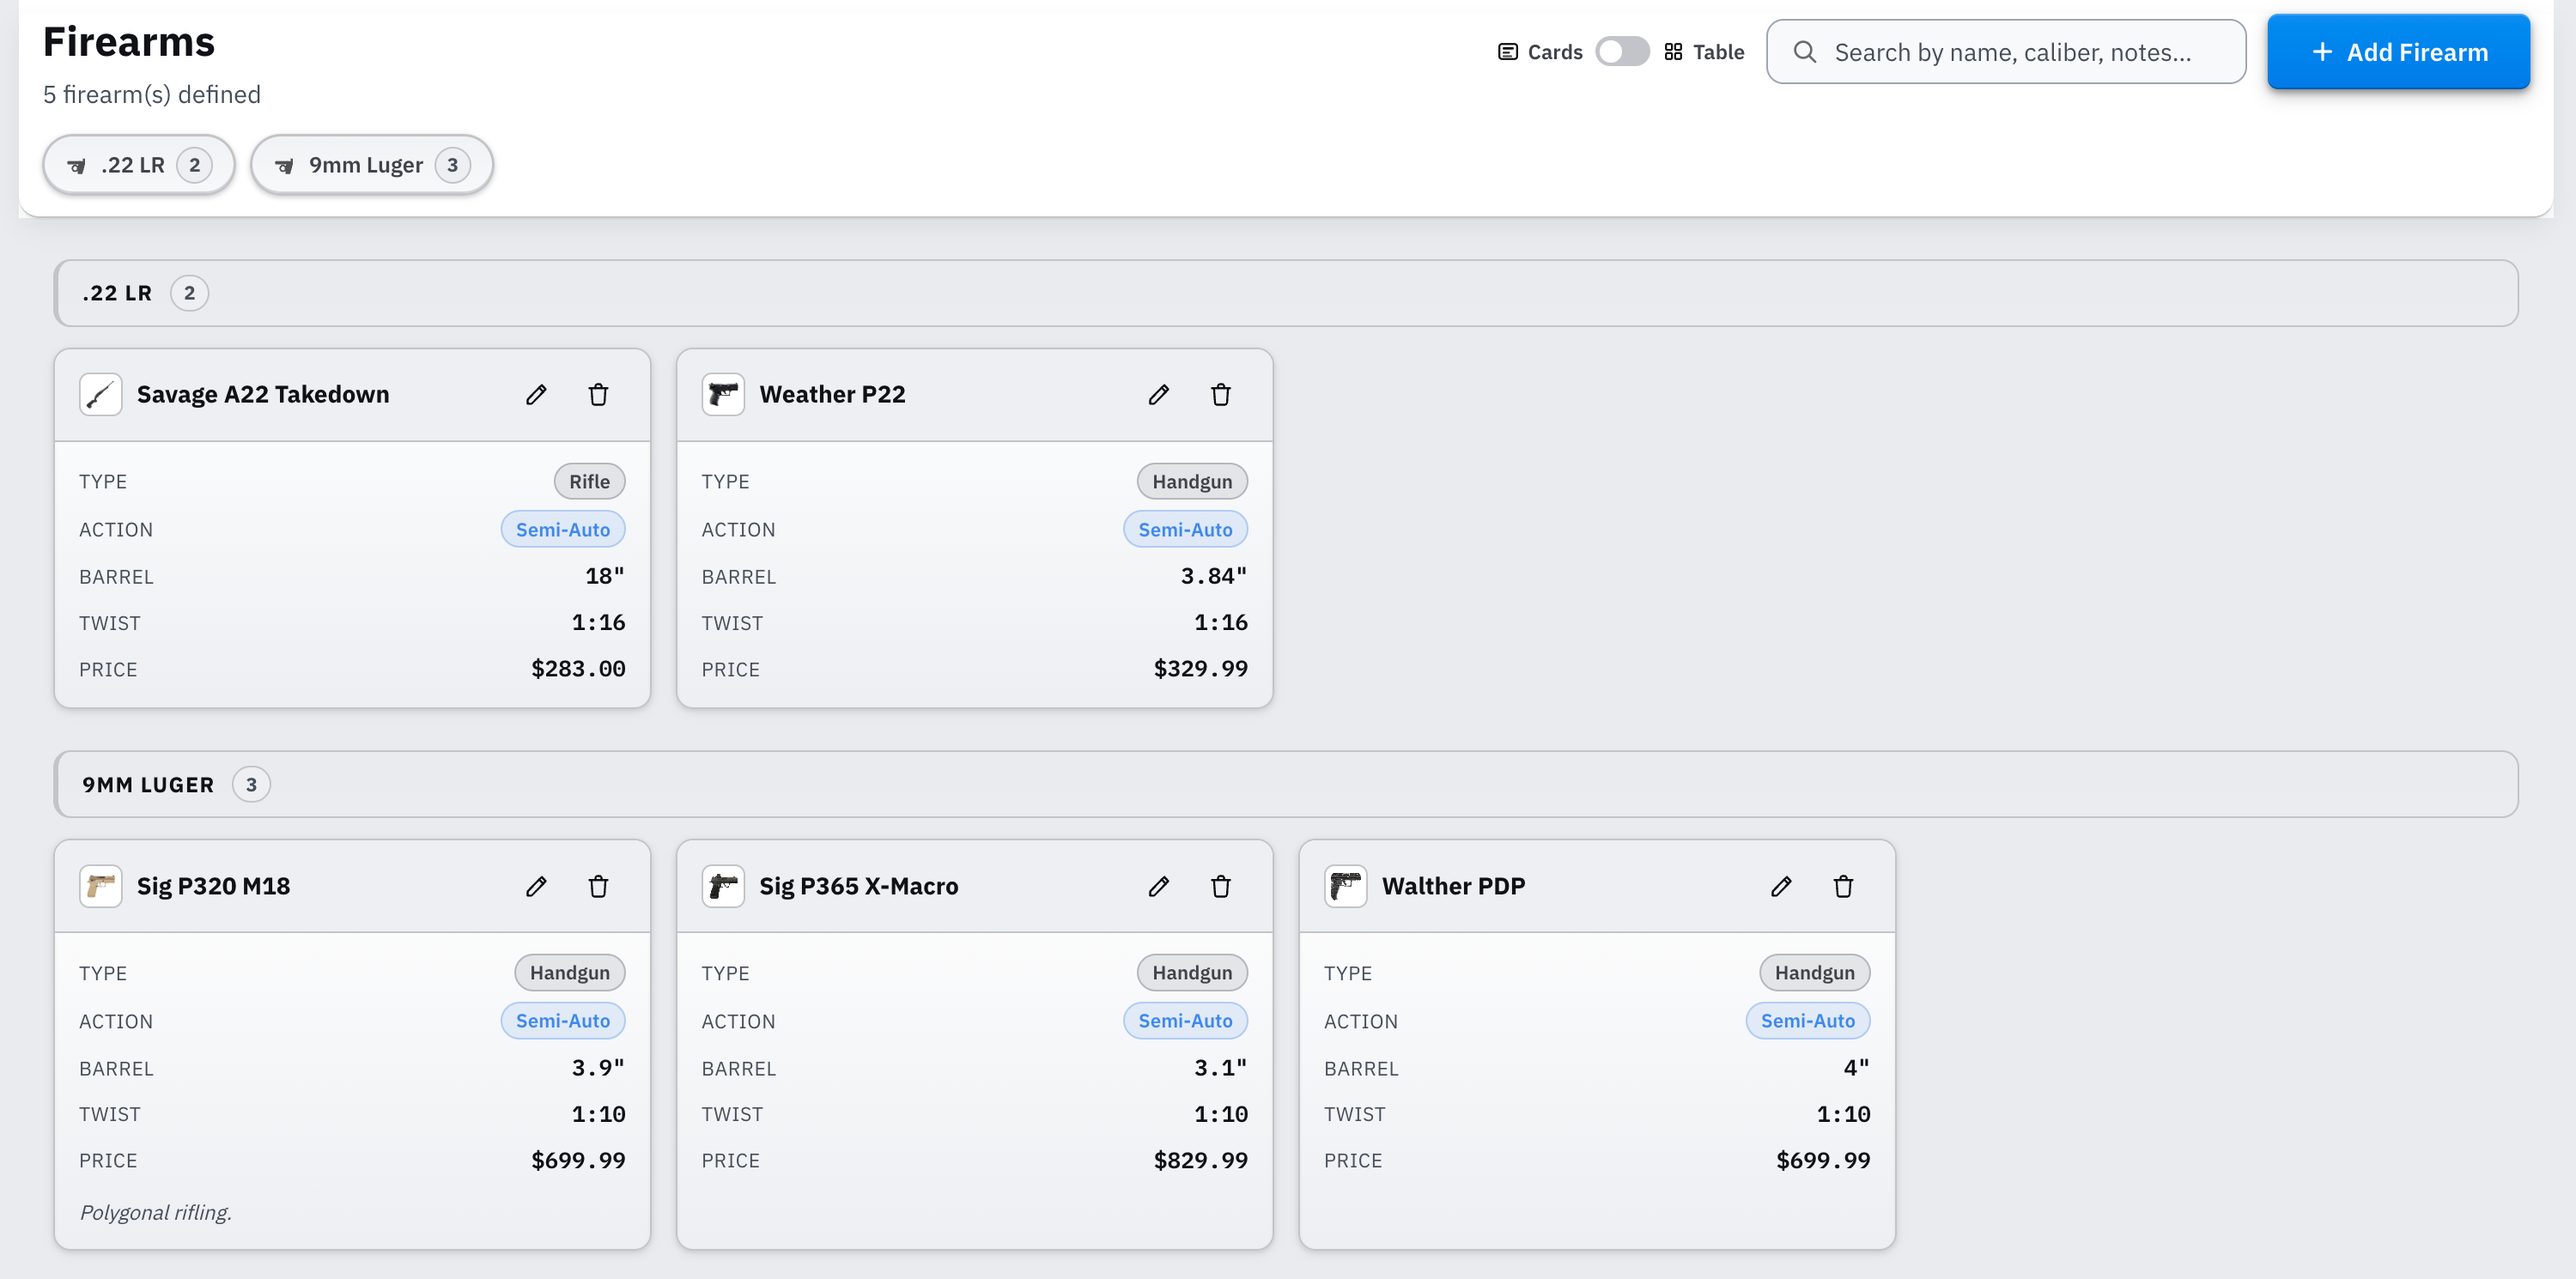
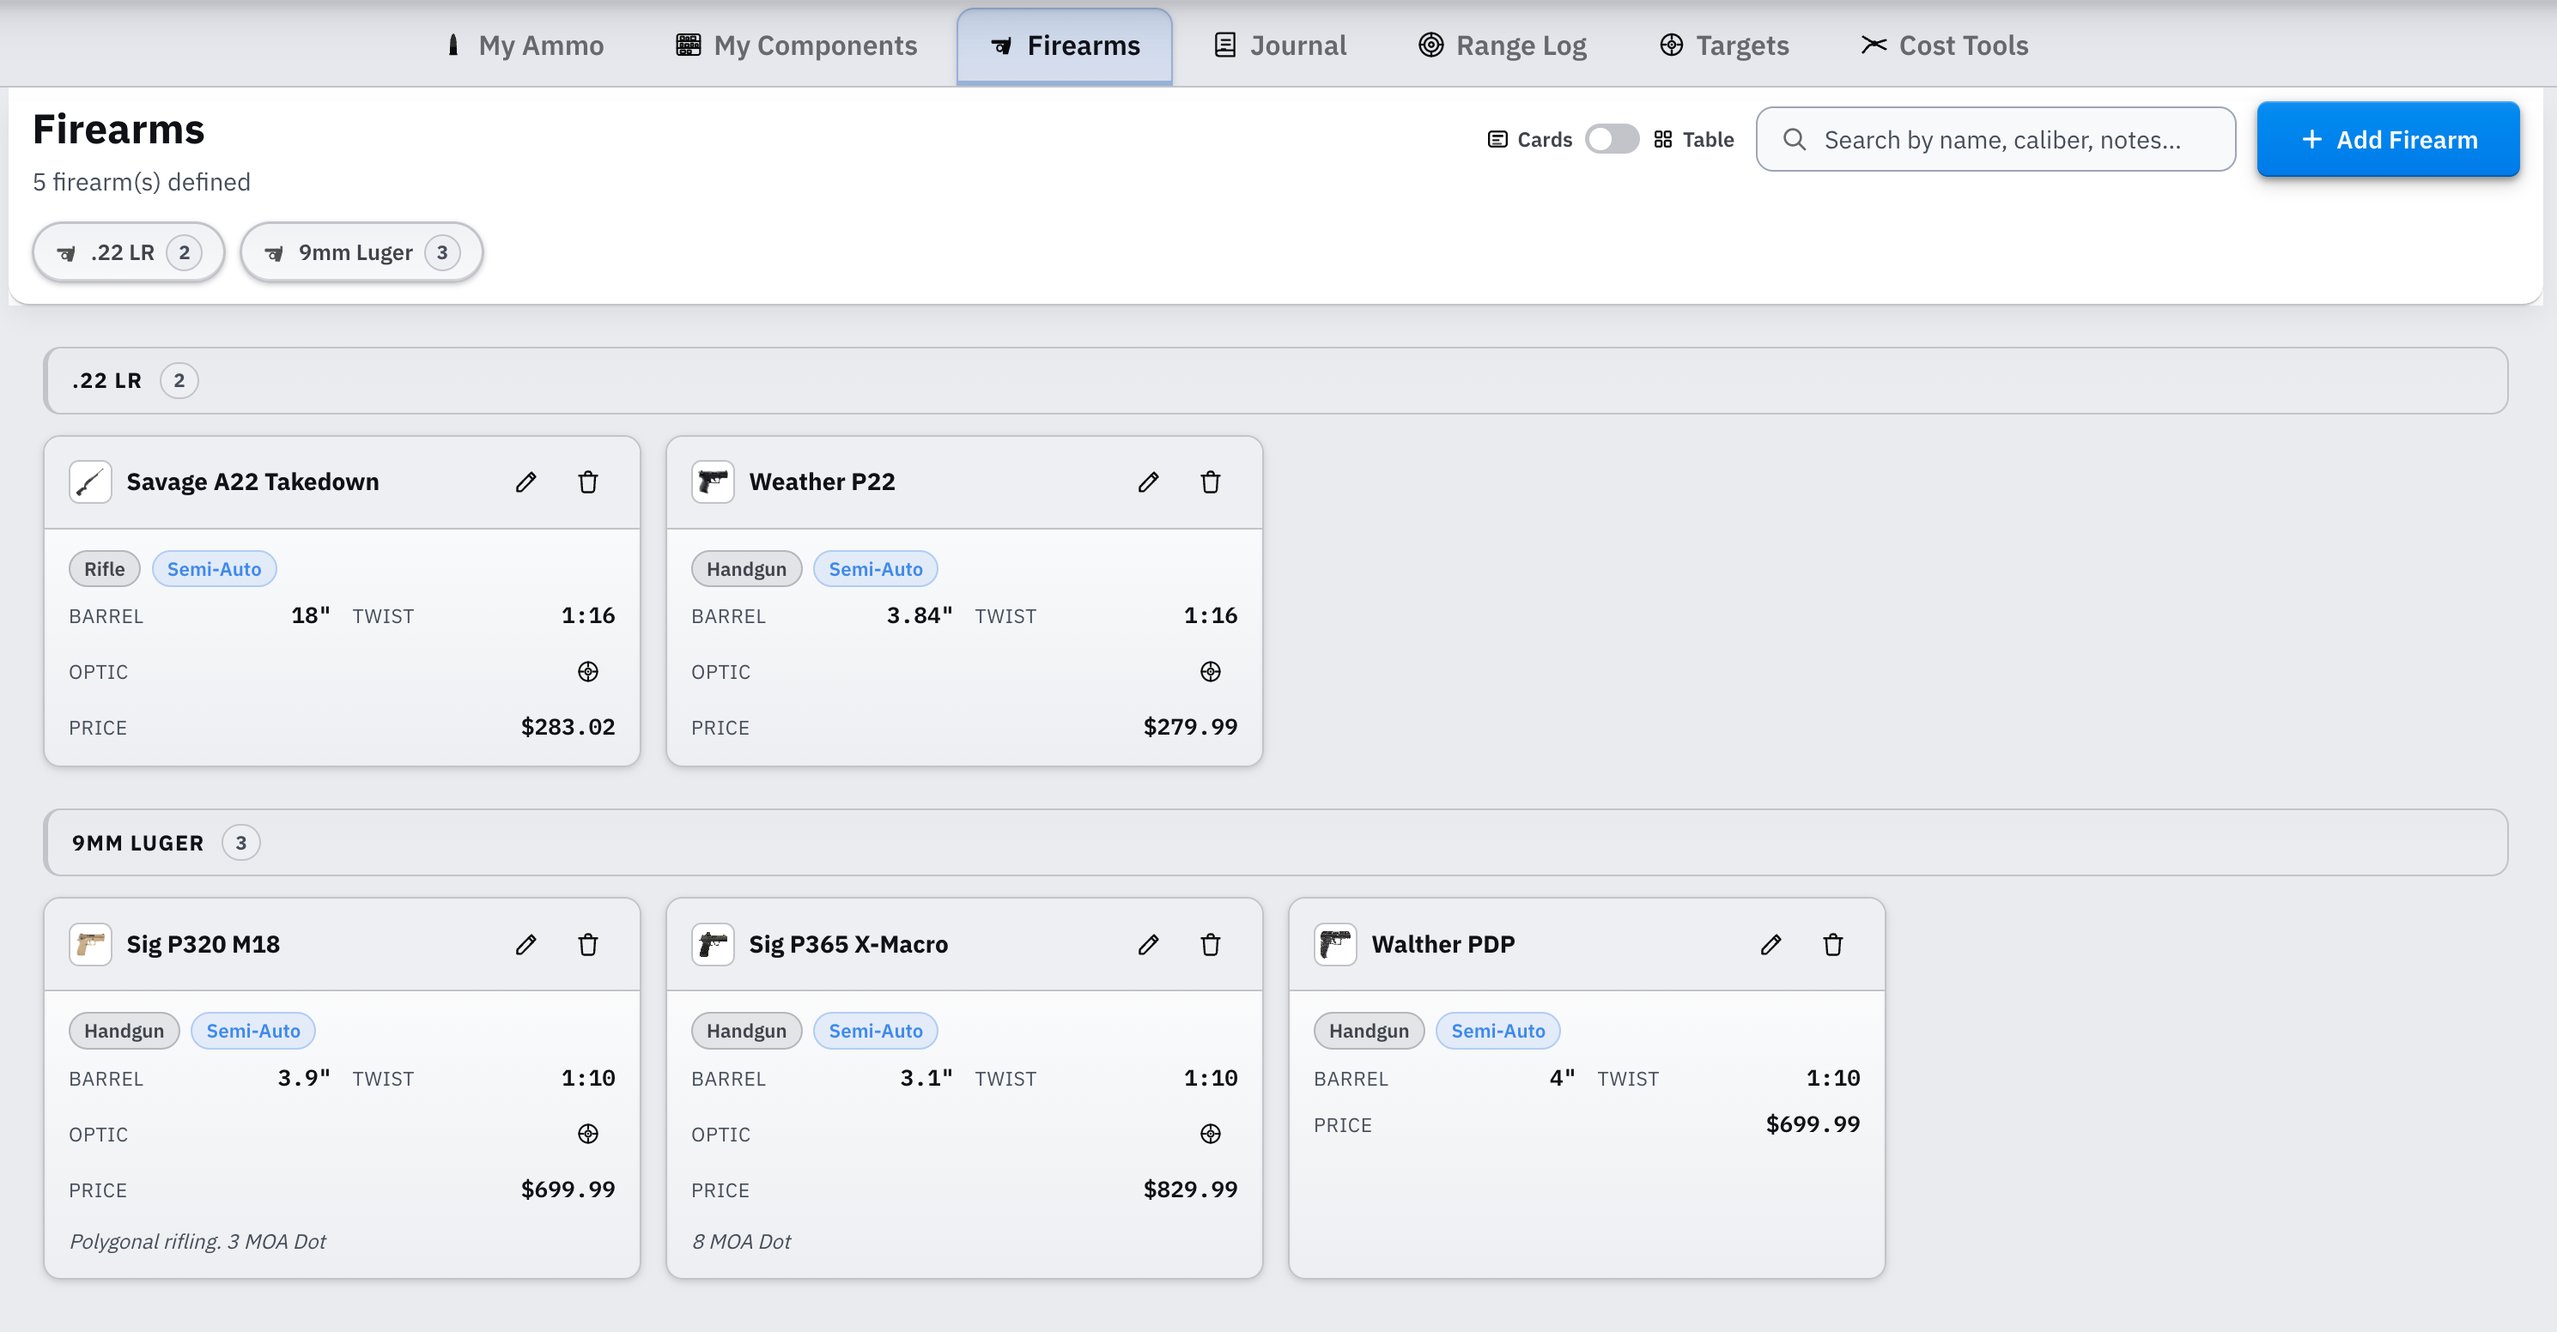
Updated documentation for scope information.

diff --git a/README.md b/README.md
@@ -45,6 +45,7 @@ Enjoying Reloading Tracker? Every cup of coffee you send my way helps keep the p
    - [Managing Firearm Profiles](#42-managing-firearm-profiles)
    - [Filtering and Searching](#43-filtering-and-searching)
    - [Card and Table Views](#44-card-and-table-views)
+   - [Firearm Datasheet](#45-firearm-datasheet)
 5. [Reloading Journal](#5-reloading-journal)
    - [Logging a Session](#51-logging-a-session)
    - [Managing Journal Entries](#52-managing-journal-entries)
@@ -158,7 +159,7 @@ The application has seven main tabs accessible from the navigation bar at the to
 |-----|---------|
 | **My Ammo** | Library of all your ammo entries: reloads and factory |
 | **My Components** | Global catalog of reloading components: powders, primers, bullets, and brass |
-| **Firearms** | Registry of your firearm profiles: type, caliber, action, barrel, and twist data, plus a photo, serial number, and price |
+| **Firearms** | Registry of your firearm profiles: type, caliber, action, barrel, and twist data, plus a photo, serial number, price, and mounted optic details |
 | **Journal** | Log pressing sessions with auto-incrementing lot numbers, dates, quantities, and notes |
 | **Range Log** | Record range sessions: firearm, distance, lots fired, round counts, performance notes |
 | **Targets** | Three sub-tabs: **Target Analysis**: upload target photos, mark impacts, measure group statistics, link to range sessions, and aggregate groups across multiple targets into one combined view; **Compare**: cross-target table of linked sessions, filterable by load, with MV, SD, computed group size, and mean radius, plus a summary bar showing best results per load; **Target Generator**: design and print custom target sheets with configurable scoring rings, grid overlays, and load annotations |
@@ -513,13 +514,15 @@ In the expanded card view under My Ammo, any component that originates from the 
 
 ## 4. Firearms Registry
 
-The **Firearms** tab is a dedicated catalog of the firearms you own and shoot. Every firearm you add here becomes available in the Range Log session form as a selectable option, keeping your range session records consistently tied to a known firearm profile rather than free-typed names. Profiles capture the mechanical details that matter for long-range and load-development work - caliber, action type, barrel length, and twist rate - as well as a photo, serial number, and purchase price for your own records.
+The **Firearms** tab is a dedicated catalog of the firearms you own and shoot. Every firearm you add here becomes available in the Range Log session form as a selectable option, keeping your range session records consistently tied to a known firearm profile rather than free-typed names. Profiles capture the mechanical details that matter for long-range and load-development work - caliber, action type, barrel length, and twist rate - as well as a photo, serial number, purchase price, and the optic mounted on the firearm.
 
 ![Screenshot: Firearms tab showing firearm profiles in card view, grouped by caliber, with caliber filter chips](./images/firearms-overview.png)
 
 ### 4.1 Adding a Firearm Profile
 
-Click **Add Firearm** in the top-right corner of the Firearms tab. A dialog opens with the following fields:
+Click **Add Firearm** in the top-right corner of the Firearms tab. The dialog is organised into a **Firearm** section and an optional **Optics** section.
+
+**Firearm**
 
 | Field | Required | Description |
 |-------|----------|-------------|
@@ -529,14 +532,35 @@ Click **Add Firearm** in the top-right corner of the Firearms tab. A dialog open
 | **Caliber** | No | The cartridge the firearm is chambered in, e.g. *.308 Win*, *9mm Luger*. Used for grouping and caliber filter chips. |
 | **Barrel Length** | No | Free text, e.g. *24 in*, *16.5"*. |
 | **Twist Rate** | No | Rifling twist rate, e.g. *1:10*, *1:8*. Relevant for bullet stabilisation in load development. |
-| **Photo** | No | Upload a photo of the firearm (HEIC photos from iPhone are converted automatically). It's resized and compressed for storage, then shown as a thumbnail everywhere the firearm appears - see 4.4 below. Click **Remove** to clear it. |
+| **Photo** | No | Upload a photo of the firearm (HEIC photos from iPhone are converted automatically). It's resized and compressed for storage, then shown as a thumbnail everywhere the firearm appears - see 4.4 and 4.5 below. Click **Remove** to clear it. |
 | **Serial Number** | No | For your own records. |
 | **Price** | No | What you paid for the firearm. |
-| **Notes** | No | Any other reference: optics setup, known issues, purchase date, etc. |
 
-Click **Add Firearm** in the dialog footer to save. The profile appears immediately in the Firearms list and becomes available in the Range Log firearm selector.
+**Optics** *(optional)*
 
-![Screenshot: Firearm form dialog showing Name, Firearm Type, Action Type, Caliber, Barrel Length, Twist Rate, Photo, Serial Number, Price, and Notes fields](./images/firearm-form-dialog.png)
+Fields for the scope or sight mounted on the firearm:
+
+| Field | Description |
+|-------|-------------|
+| **Manufacturer** | e.g. *Vortex*, *Leupold*. |
+| **Model** | e.g. *Razor HD Gen III*. |
+| **Type** | **Scope**, **Red Dot**, **Holographic**, **Prism**, **LPVO**, **Iron Sights**, or **Other**. |
+| **Magnification** | Free text, e.g. *4.5-27x56*, *1x*. |
+| **Focal Plane** | **FFP** or **SFP**. |
+| **Reticle** | Free text, e.g. *EBR-7C MOA*, *TMR*. |
+| **Turret Units** | **MOA** or **MRAD**. |
+| **Zero Distance** | Free text, e.g. *100 yd*. |
+
+Leave the Optics fields blank if the firearm has no optic mounted, or if you'd rather not track it - the Optics section is skipped everywhere in the UI when no optic field is set.
+
+**Notes**
+
+Any other reference: known issues, purchase date, etc.
+
+Click **Save** to add the firearm. The profile appears immediately in the Firearms list and becomes available in the Range Log firearm selector.
+
+
+![Screenshot: Firearm form dialog showing the Firearm section (Name, Type, Action, Caliber, Barrel, Twist, Photo, Serial, Price) and the Optics section (Manufacturer, Model, Type, Magnification, Focal Plane, Reticle, Turret Units, Zero Distance)](./images/firearm-form-dialog.png)
 
 ### 4.2 Managing Firearm Profiles
 
@@ -567,15 +591,23 @@ Clearing the search box resets the list to all profiles (subject to any active c
 
 The **Cards / Table** toggle in the page header switches the display layout. The preference is saved between sessions so the Firearms tab always opens in your last-used view.
 
-**Card view** (default): each firearm appears as a tile showing all populated fields, including Serial Number and Price when set. Fields that were left blank are omitted from the card to keep it uncluttered. The Type badge and Action tag appear as styled chips. If a photo is set, it replaces the generic firearm icon in the card header as a small thumbnail.
+**Card view** (default): each firearm appears as a compact tile. The header shows the photo thumbnail (or a generic firearm icon if none is set) and the name. The body shows only the core fields that are populated - the Type and Action badges share a row, Barrel and Twist share a row, followed by Serial, an **Optic** row, and Price, each on its own line. Notes (if any) appear at the bottom, truncated with a small icon if long - hover or focus it to read the full text in a tooltip. Fields left blank are omitted entirely to keep the card compact.
 
-**Table view**: profiles are displayed as rows in a denser layout with columns for Photo, Name, Type, Action, Barrel, Twist, Serial, Price, and Notes. This view is more efficient for scanning a large registry at a glance.
+**Table view**: profiles are displayed as rows with columns for Photo, Name, Type, Action, Barrel, Twist, Serial, Optic, and Price. Notes, if present, appear as a truncated preview beneath the firearm's name rather than in a separate column - hover or focus the preview to read the full note. This view is more efficient for scanning a large registry at a glance.
 
-**Photo thumbnails and hover-to-zoom**: wherever a firearm photo appears - the card header or the table's Photo column - it's shown as a small thumbnail. Hover over (or focus) a thumbnail to see the full-size photo in a popup, without leaving the list.
+**Optic column/row**: when a firearm has any Optics field set, a scope icon appears - in the Optic column in table view, or the Optic row in card view. Hover or focus the icon to see a quick summary (manufacturer, model, type, magnification, focal plane, reticle, turret units, zero distance) in a tooltip. Firearms with no optic set show nothing in this column/row.
+
+**Photo thumbnails**: wherever a firearm photo appears - the card header or the table's Photo column - it's shown as a small thumbnail. Hover over (or focus) a thumbnail to see the firearm's full datasheet - see 4.5 below.
 
 In both views, profiles are grouped by caliber. Firearms without a caliber appear in an **Uncategorized** group at the bottom.
 
-![Screenshot: Firearms tab table view showing rows grouped by caliber with Type and Action tag columns](./images/firearms-table-view.png)
+![Screenshot: Firearms tab table view showing rows grouped by caliber, with Optic column and notes preview under the name](./images/firearms-table-view.png)
+
+### 4.5 Firearm Datasheet
+
+Hovering over (or focusing) a firearm's photo thumbnail - in either card or table view - opens a **datasheet** popup with everything on file for that firearm: the full-size photo, name, Type/Action badges, Barrel/Twist/Serial/Price specs, an **Optics** section (when set), and Notes. The datasheet is read-only; it's a quick way to see all the details without opening the edit dialog. Move the pointer away (or click elsewhere) to dismiss it.
+
+![Screenshot: Firearm datasheet popup showing photo, badges, specs, Optics section, and notes](./images/firearm-datasheet.png)
 
 ---
 
